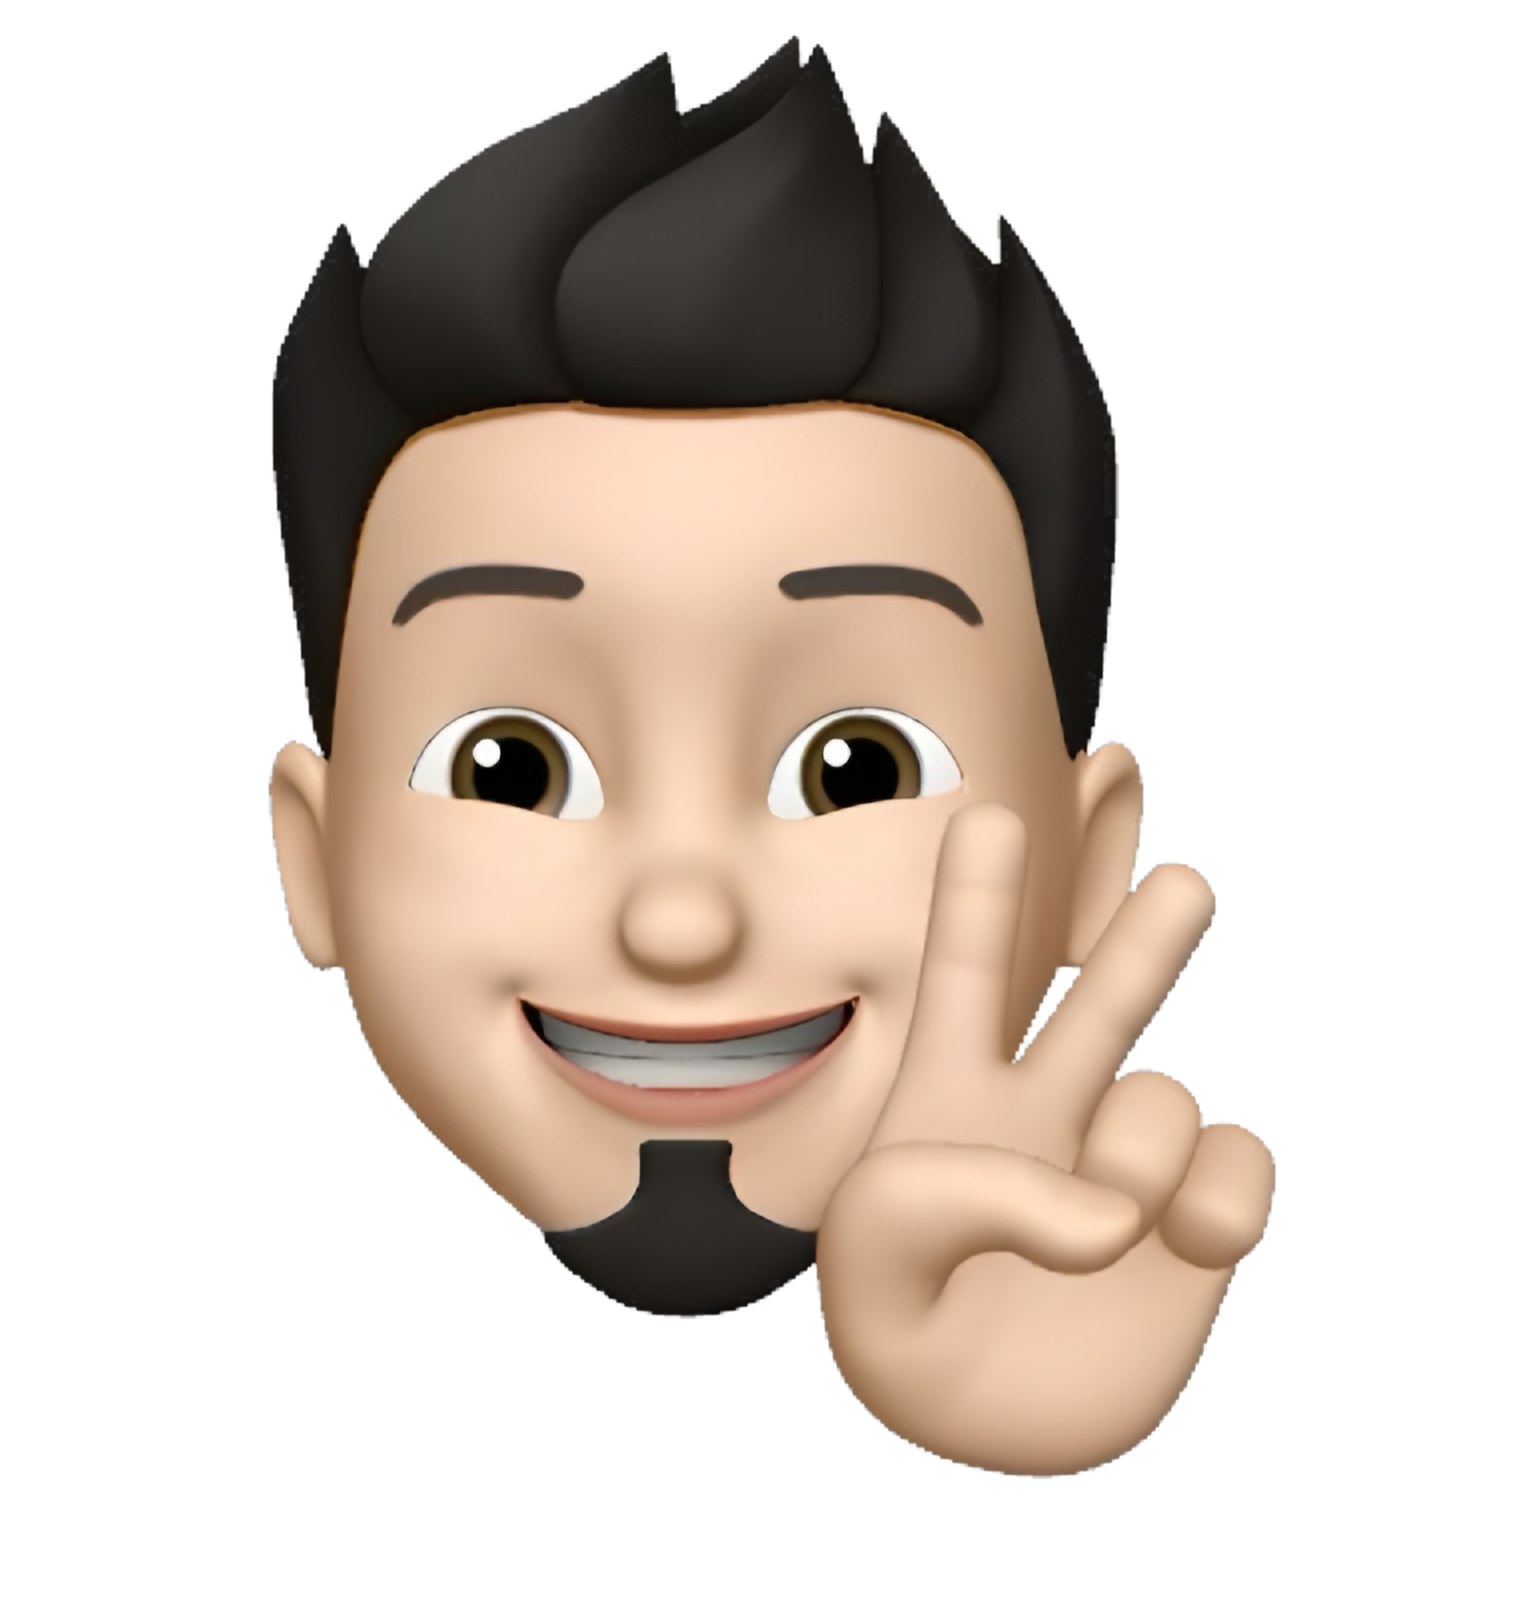
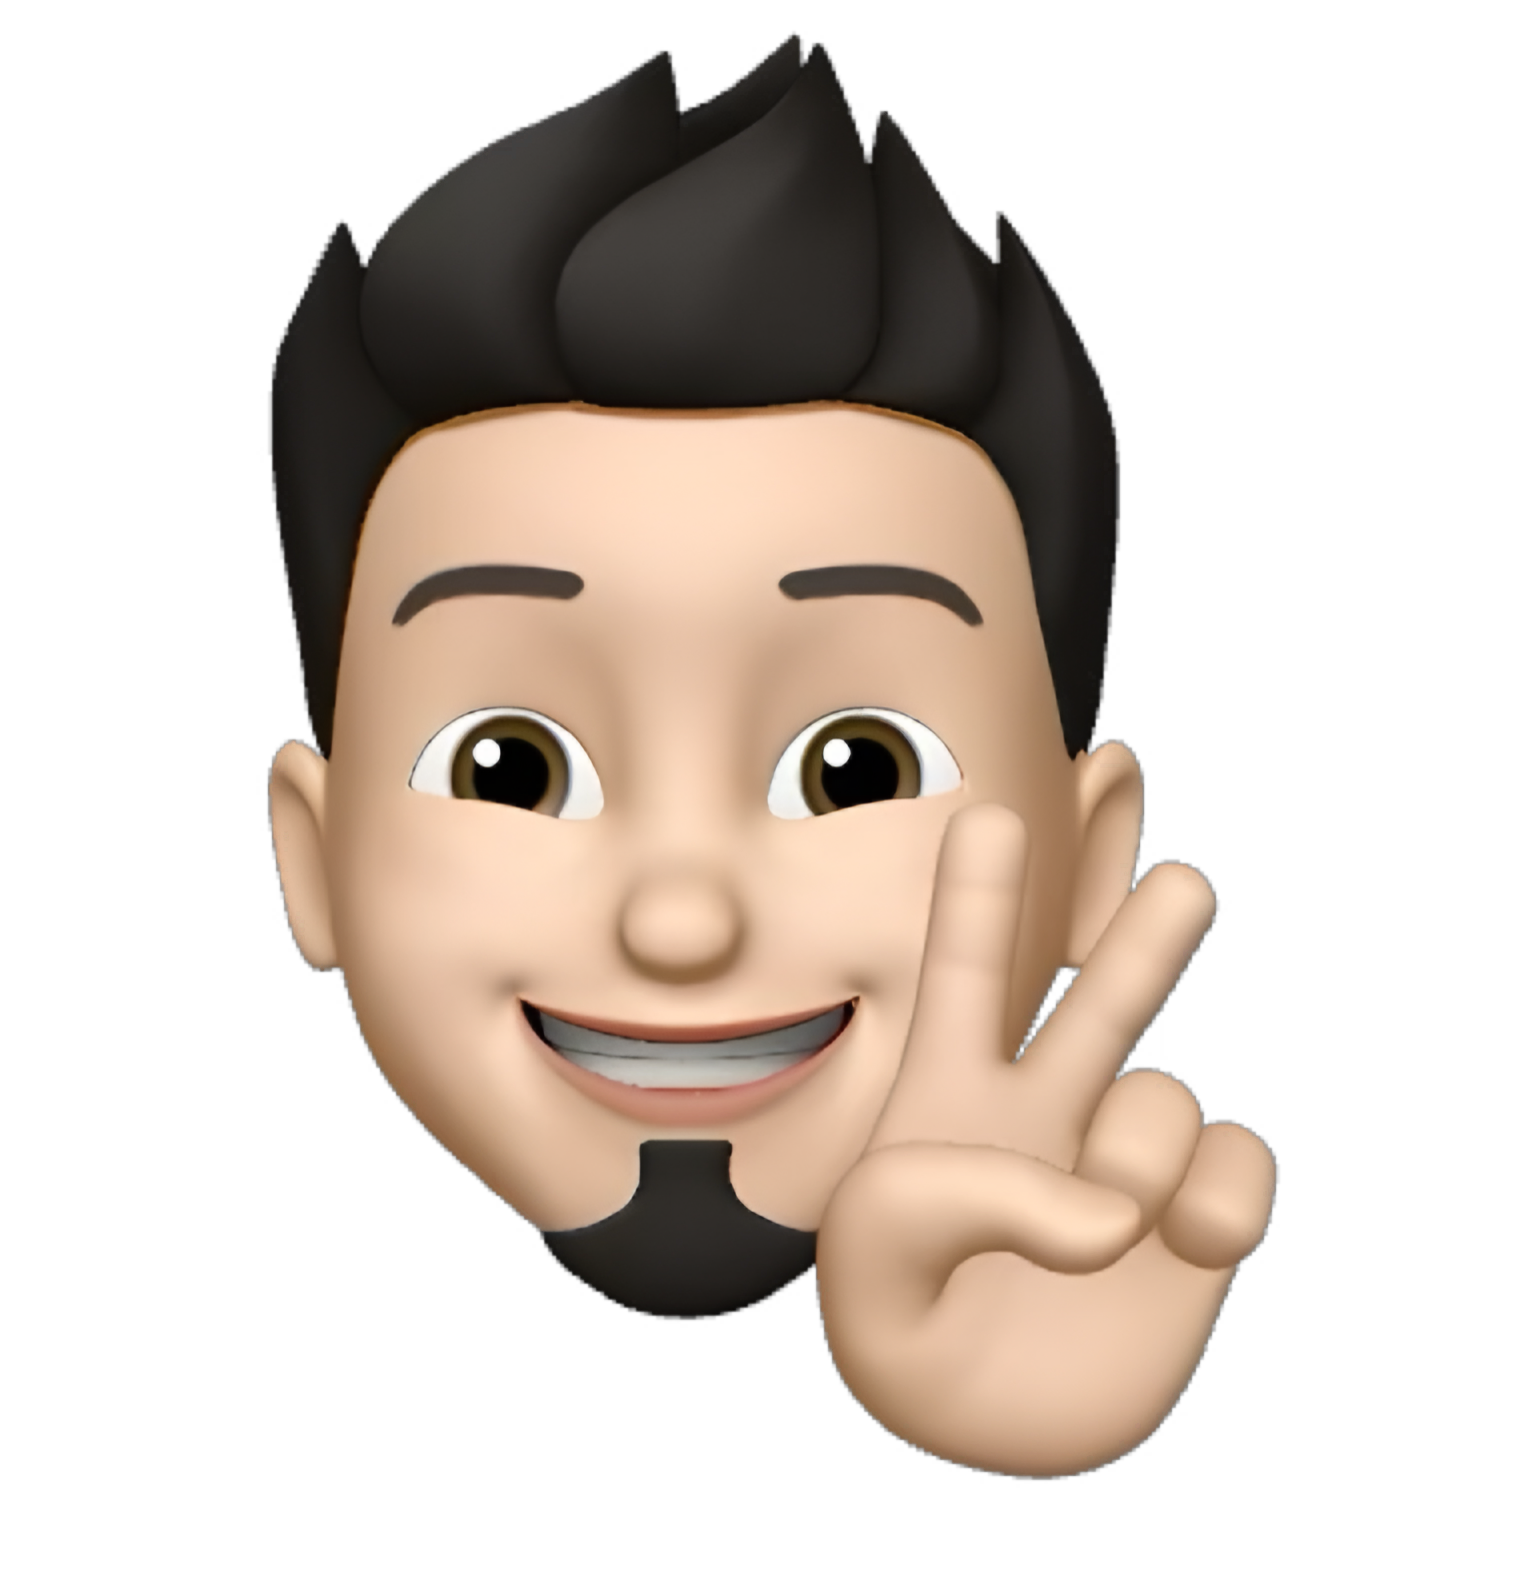
added git links to project finalized hero image

diff --git a/src/data/constants.js b/src/data/constants.js
@@ -293,7 +293,7 @@ export const projects = [
       "https://github.com/sonishstark/Portfolio-website/blob/main/public/Gorup_media.jpg?raw=true",
     tags: ["JavaScript", "Django", "Bootstrap", "HTML", "CSS", "Apache Tomcat"],
     category: "web app",
-    github: "https://github.com/rishavchanda/Project-Management-App",
+    github: "https://github.com/sonishstark/Group_Media",
     member: [
       {
         name: "Vivian Xaiver",
@@ -338,7 +338,7 @@ export const projects = [
       "https://github.com/sonishstark/Portfolio-website/blob/main/public/hand_sign.jpg?raw=true",
     tags: ["Python", "TensorFLow", "Neural Network", "Keras"],
     category: "others",
-    github: "https://github.com/rishavchanda/Buckoid-Android-App",
+    github: "",
     member: [
       {
         name: "Sonish Sasidharan",
@@ -364,7 +364,7 @@ export const projects = [
         name: "Sonish Sasidharan",
         img: "https://avatars.githubusercontent.com/u/52243863?v=4",
         linkedin: "https://www.linkedin.com/in/sonish-s/",
-        github: "https://github.com/rishavchanda/",
+        github: "https://github.com/sonishstark",
       },
     ],
   },

diff --git a/src/components/HeroSection/HeroStyle.js b/src/components/HeroSection/HeroStyle.js
@@ -97,7 +97,6 @@ export const Img = styled.img`
   max-width: 380px;
   max-height: 400px;
   border-radius: 50%;
-  border: 2px solid ${({ theme }) => theme.primary};
 
   @media (max-width: 768px) {
     max-width: 400px;
